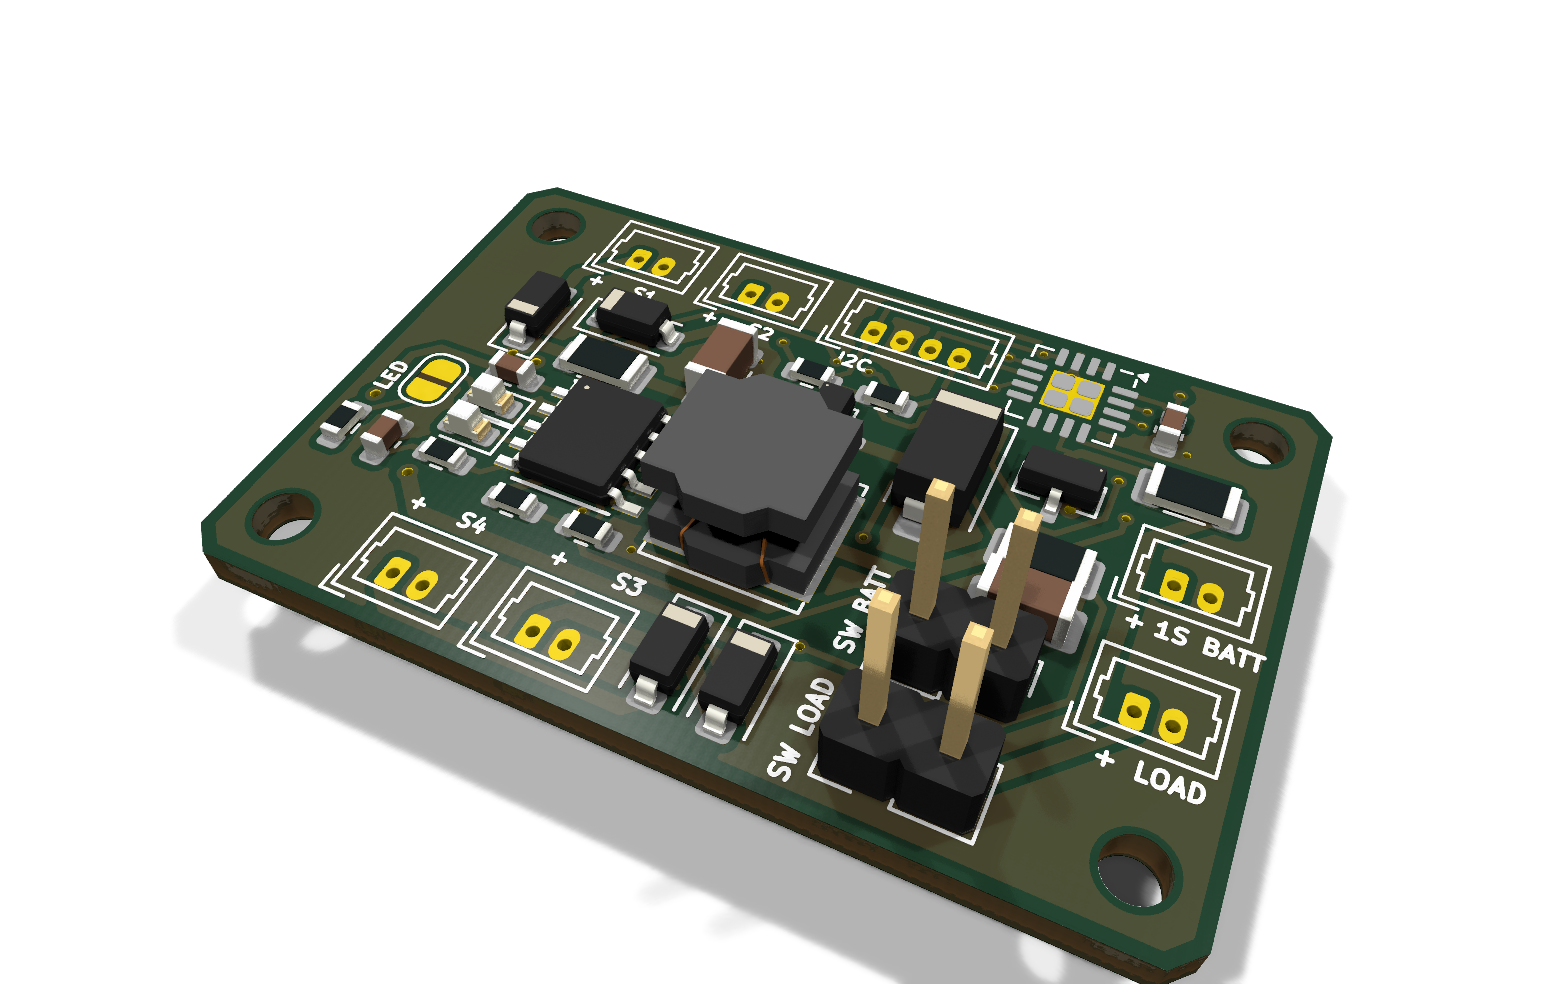
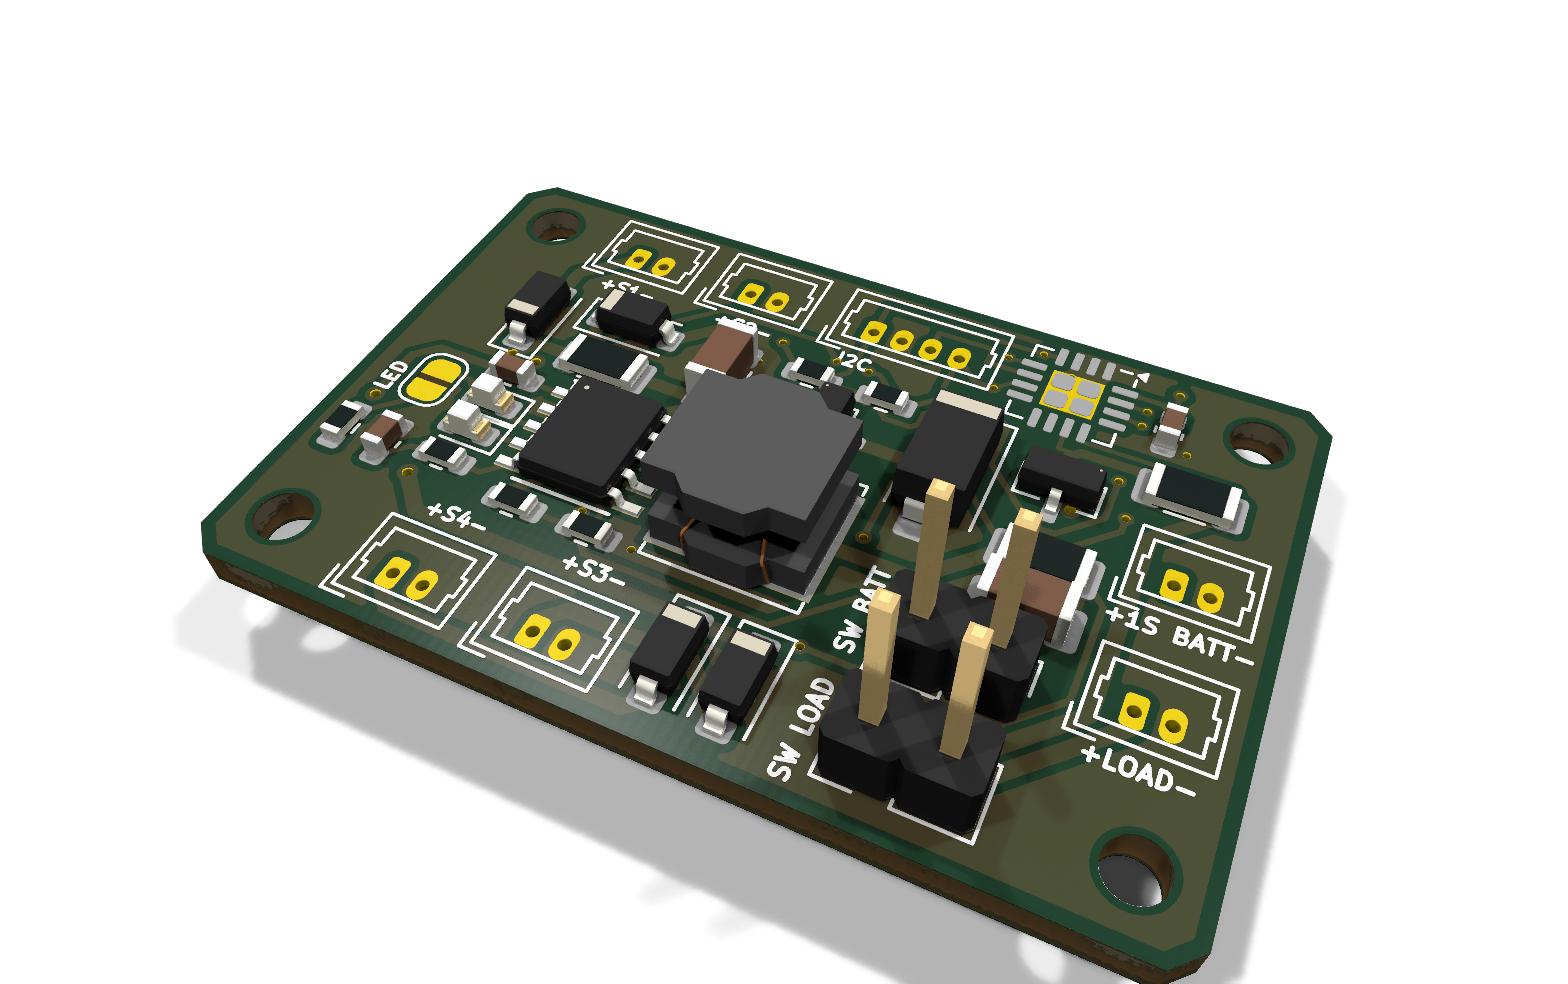
feat(silk): put both polarity marks on each connector label
The J1-J6 labels showed only a "+" on the pin-1 side: "+   S1" texts on
the solar inputs, and separate "+" marks next to "1S BATT" and "LOAD".
Replace them with one centred label per connector that also marks
ground: +S1-, +S2-, +S3-, +S4-, +1S BATT- and +LOAD-, still 0.6 mm,
each centred on its pad pair so "+" falls on pin 1 and "-" on GND.

Re-render the top and 3D images and redraw the wiring diagram. Update
the silkscreen notes in README, CHANGELOG and CLAUDE.md. DRC:
0 violations, 0 unconnected, schematic parity 0.

diff --git a/CLAUDE.md b/CLAUDE.md
@@ -13,7 +13,7 @@ Schematic complete and reviewed; ERC is clean (0 items at all severities) and th
 
 PCB placed and auto-routed: 42 footprints (incl. H1–H4 and the JP1 solder jumper), 216 track segments, 46 vias, GND pours on both layers. DRC: 0 violations, 0 unconnected, schematic parity 0. Silkscreen has connector function labels, +/- polarity marks, I2C pin names and the module ID on the back. v1.1 is work in progress on `main`: v1.0's pinout and copper, plus polarity marks, a new back label and revision, 2.54 mm pin headers on J7 and J8, R3 = 26.7k (4.42 V MPPT set point, was 28.0k / 4.58 V), JP1, an open solder jumper in the LED supply, Q2, a reverse-battery P-FET at J5, and J9 reordered to 1 VCC, 2 GND, 3 SCL, 4 SDA (was 2 SDA, 4 GND) to match the user's red/black/yellow/white cable. The first v1.1 tag and release were withdrawn; the user will mint v1.1 again when ordering the next fabrication batch. v1.0 is the only release, with its fab package attached. Commit 0093163 swapped J5 and J6 by mistake, so don't use it. Commit 948465d is the JST board with v1.1's silkscreen that was briefly tagged v1.1. Fabrication package generated (Gerbers, drill, BOM, CPL, fab notes) — see **Fabrication**. Next: manual layout review before ordering (buck hot loop, B.Cu plane cuts), pick LCSC parts for the assembly BOM.
 
-**Current board (`new_layout`, started 2026-11-16, merged into `main` on 2026-11-17): a new, hand-placed 36.4 × 23.6 mm board. Everything else in this file about placement, routing, outline and holes describes the previous 52 × 29 mm board (`main` up to ea2bd97). The README, CHANGELOG, `docs/images/` (renders at zoom 1.35, wiring diagram, schematic SVG), `tools/make-diagram.py` and the fab notes in `tools/fab-package.js` describe the new board (2026-11-17).** The user removed R10 and the panel-1 channel (INA3221 channel 3 inputs IN+3/IN−3 are tied together and, since 2026-11-17, to GND: #PWR019 below the tie, and on the board a 0.65 mm F.Cu link from U2 pad 2 to pad 3, so ERC is 0) and hand-placed and locked C1, C3, C5, D5–D8, J1–J4, L1, Q1, R7 and U1 in KiCad. Claude placed the rest once (D2 moved under L1 with the user's OK); the user then reworked the whole placement by hand, so the board file, not this note, is the source of truth for part positions. Mounting holes: H1–H4 are M2 (`MountingHole:MountingHole_2.2mm_M2`, value M2, schematic and board), one per corner, 2.5 mm from both edges, at abs (104.35, 102.5), (135.75, 102.5), (104.35, 121.1), (135.75, 121.1): a 31.4 × 18.6 mm pattern. The outline is fitted to the user's placement without moving parts: the width is set by the top holes (H1 just clears J1, H2 just clears C6), the bottom edge by the 0.5 mm copper-to-edge rule at D7/D8's pads. 36.4 × 23.6 mm, abs x 101.85–138.25, y 100–123.6, 1 mm chamfers. Silk is the user's own (connector labels with `+`). After an electrical/noise review of the user's final placement, Claude moved (user's OK): C1 and C5 vertical left of Q1 with VIN pads down toward Q1's source and C5 (100 nF) closest, 1.9 mm from it; C2 (VG) next to U1 pin 1, with the left column at 1.6 mm pitch matching pins 1–5 (C2, D4, D3, R2, C4) and JP1 + R1 moved beside it (LED chain VIN → R1 → JP1 → anodes without crossings; the `LED` label moved with JP1); R3/R4 under U1 so the MPPT node is about 3 mm long at pin 6 instead of 12 mm from the left edge; C3 (Cout) under R5 with its VBAT pad below R5's, J7 0.86 mm lower to make room. Routing notes for this board: DRV (U1 pin 10 → Q1 gate) has to hop to B.Cu because Q1's gate and source share a side; give C1/C5's GND pads and D2's anode their own vias (the return to D2 is ~8 mm through the plane); L1's SW pad is only 0.65 mm from U1 pins 7–10; C6 stays 4.5 mm from U2's VS pin (no room on that side). Placement committed as e94f77c. **Routing (2026-11-16):** U2 moved 0.45 mm left so INA channel 2 (pins 14/15) can escape past C6, and D2 moved 0.25 mm down to clear U2's courtyard. The board was routed by an adaptation of `tools/route-pcb.py` (copy in the gitignored `output/route-new-layout.py`). Changes from that tool: a route may change layers at a same-net through-hole pad without a new via. Kelvin lines may touch only their two end pads. A HAND list holds hand-placed tracks that are routed before everything else: the DRV hop, the INA escapes, the U2 supply, A0→SDA and the I2C pull-up fan-out with SCL changing layer at J9.3. B.Cu keep-outs for every net but GND sit under U2, under the C5/Q1/D2 switching loop and under L1's switch pad. Without the U2 keep-out, B.Cu tracks fenced in U2's exposed-pad ground. Result: 0 unconnected, parity 0. The 12 text-height warnings on the user's 0.6 mm front labels went away on 2026-11-17, when the minimum text height in the .kicad_pro was lowered from 0.8 to 0.6 mm at the user's request; DRC is now 0 violations. GND pours fill both layers, and B.Cu is one piece. DRC: 0 errors, parity 0, 70 unrouted. `tools/place-pcb.py` and `tools/draw-routes.py` describe the previous board and must not be run on this one. **Back silkscreen (2026-11-16):** `main`'s back label, same text and order, mirrored on B.Silkscreen, except that the second line is just the date, "Nov. 14, 2026": the user had "by JaisorGadgets" removed. To fit the 36.4 × 23.6 mm board, the title is 1.0 mm (was 1.2) and the body 0.8 mm (was 1.0) at a 1.2 mm pitch, centred at abs x = 116 between the left edge and J7's pads, from y = 107.5 to 119. The two last legal lines are one line, "LIABILITY LIMITED TO THE PURCHASE PRICE.", which fits only in the gap between J7 and J8. J9's VCC/GND/SCL/SDA are 0.8 mm vertical text below each pad. The script is `output/add-back-silk-new-layout.py` (gitignored), and it can be re-run: it first removes the board's B.Silkscreen texts. DRC is unchanged.
+**Current board (`new_layout`, started 2026-11-16, merged into `main` on 2026-11-17): a new, hand-placed 36.4 × 23.6 mm board. Everything else in this file about placement, routing, outline and holes describes the previous 52 × 29 mm board (`main` up to ea2bd97). The README, CHANGELOG, `docs/images/` (renders at zoom 1.35, wiring diagram, schematic SVG), `tools/make-diagram.py` and the fab notes in `tools/fab-package.js` describe the new board (2026-11-17).** The user removed R10 and the panel-1 channel (INA3221 channel 3 inputs IN+3/IN−3 are tied together and, since 2026-11-17, to GND: #PWR019 below the tie, and on the board a 0.65 mm F.Cu link from U2 pad 2 to pad 3, so ERC is 0) and hand-placed and locked C1, C3, C5, D5–D8, J1–J4, L1, Q1, R7 and U1 in KiCad. Claude placed the rest once (D2 moved under L1 with the user's OK); the user then reworked the whole placement by hand, so the board file, not this note, is the source of truth for part positions. Mounting holes: H1–H4 are M2 (`MountingHole:MountingHole_2.2mm_M2`, value M2, schematic and board), one per corner, 2.5 mm from both edges, at abs (104.35, 102.5), (135.75, 102.5), (104.35, 121.1), (135.75, 121.1): a 31.4 × 18.6 mm pattern. The outline is fitted to the user's placement without moving parts: the width is set by the top holes (H1 just clears J1, H2 just clears C6), the bottom edge by the 0.5 mm copper-to-edge rule at D7/D8's pads. 36.4 × 23.6 mm, abs x 101.85–138.25, y 100–123.6, 1 mm chamfers. Silk is the user's own labels, except that on 2026-11-17 (user's request) the J1–J6 labels became one centred `+name-` text each (`+S1-`…`+S4-`, `+1S BATT-`, `+LOAD-`, 0.6 mm, centred on the pad pair), replacing `+   S1` style texts and the separate `+` marks at J5/J6. After an electrical/noise review of the user's final placement, Claude moved (user's OK): C1 and C5 vertical left of Q1 with VIN pads down toward Q1's source and C5 (100 nF) closest, 1.9 mm from it; C2 (VG) next to U1 pin 1, with the left column at 1.6 mm pitch matching pins 1–5 (C2, D4, D3, R2, C4) and JP1 + R1 moved beside it (LED chain VIN → R1 → JP1 → anodes without crossings; the `LED` label moved with JP1); R3/R4 under U1 so the MPPT node is about 3 mm long at pin 6 instead of 12 mm from the left edge; C3 (Cout) under R5 with its VBAT pad below R5's, J7 0.86 mm lower to make room. Routing notes for this board: DRV (U1 pin 10 → Q1 gate) has to hop to B.Cu because Q1's gate and source share a side; give C1/C5's GND pads and D2's anode their own vias (the return to D2 is ~8 mm through the plane); L1's SW pad is only 0.65 mm from U1 pins 7–10; C6 stays 4.5 mm from U2's VS pin (no room on that side). Placement committed as e94f77c. **Routing (2026-11-16):** U2 moved 0.45 mm left so INA channel 2 (pins 14/15) can escape past C6, and D2 moved 0.25 mm down to clear U2's courtyard. The board was routed by an adaptation of `tools/route-pcb.py` (copy in the gitignored `output/route-new-layout.py`). Changes from that tool: a route may change layers at a same-net through-hole pad without a new via. Kelvin lines may touch only their two end pads. A HAND list holds hand-placed tracks that are routed before everything else: the DRV hop, the INA escapes, the U2 supply, A0→SDA and the I2C pull-up fan-out with SCL changing layer at J9.3. B.Cu keep-outs for every net but GND sit under U2, under the C5/Q1/D2 switching loop and under L1's switch pad. Without the U2 keep-out, B.Cu tracks fenced in U2's exposed-pad ground. Result: 0 unconnected, parity 0. The 12 text-height warnings on the user's 0.6 mm front labels went away on 2026-11-17, when the minimum text height in the .kicad_pro was lowered from 0.8 to 0.6 mm at the user's request; DRC is now 0 violations. GND pours fill both layers, and B.Cu is one piece. DRC: 0 errors, parity 0, 70 unrouted. `tools/place-pcb.py` and `tools/draw-routes.py` describe the previous board and must not be run on this one. **Back silkscreen (2026-11-16):** `main`'s back label, same text and order, mirrored on B.Silkscreen, except that the second line is just the date, "Nov. 14, 2026": the user had "by JaisorGadgets" removed. To fit the 36.4 × 23.6 mm board, the title is 1.0 mm (was 1.2) and the body 0.8 mm (was 1.0) at a 1.2 mm pitch, centred at abs x = 116 between the left edge and J7's pads, from y = 107.5 to 119. The two last legal lines are one line, "LIABILITY LIMITED TO THE PURCHASE PRICE.", which fits only in the gap between J7 and J8. J9's VCC/GND/SCL/SDA are 0.8 mm vertical text below each pad. The script is `output/add-back-silk-new-layout.py` (gitignored), and it can be re-run: it first removes the board's B.Silkscreen texts. DRC is unchanged.
 
 **Merged 2026-11-09:** `multi_channel_sensor` went into `main` through PR #1 (merge def7636), so `main` now holds the 52 × 29 mm INA3221 board and every mention below of "the branch" or "on `main`" describes history before that merge. `CHANGELOG.md` lists the user-facing changes per release; add to it with each release.
 

diff --git a/README.md b/README.md
@@ -118,11 +118,11 @@ The schematic follows the CN3791 datasheet's typical application circuit (Figure
 | Area | Parts |
 |---|---|
 | Corners | M2 mounting holes H1–H4 |
-| Top edge | Solar inputs J1 (`S1`) and J2 (`S2`), the 4-pin I2C connector J9, then the INA3221 (U2) with its bypass capacitor C6 |
+| Top edge | Solar inputs J1 (`+S1-`) and J2 (`+S2-`), the 4-pin I2C connector J9, then the INA3221 (U2) with its bypass capacitor C6 |
 | Upper middle | Input diodes D5/D6 and the solar shunt R7, then the buck power stage: C1/C5, Q1, D2, with the I2C pull-ups R8/R9 above Q1. Right of D2: the charge-current shunt R5 and C3, the reverse-battery MOSFET Q2 and the battery shunt R6 |
 | Middle | CN3791 (U1), with C2, the status LEDs D3/D4, R2 and C4 in a column on its left and the MPPT divider R3/R4 below it. L1 is to its right. JP1, the LED solder jumper, and R1 sit at the left edge |
-| Right edge | Battery (J5, `1S BATT`) and VOUT (J6, `LOAD`) |
-| Bottom edge | Solar inputs J4 (`S4`) and J3 (`S3`) with their diodes D8/D7, then the switch headers J7 (`SW BATT`) and J8 (`SW LOAD`) |
+| Right edge | Battery (J5, `+1S BATT-`) and VOUT (J6, `+LOAD-`) |
+| Bottom edge | Solar inputs J4 (`+S4-`) and J3 (`+S3-`) with their diodes D8/D7, then the switch headers J7 (`SW BATT`) and J8 (`SW LOAD`) |
 
 Reference designators aren't printed; the silkscreen carries only function labels. The holes are plain non-plated 2.2mm M2 holes, 2.5mm in from each edge.
 
@@ -140,9 +140,8 @@ The [wiring diagram](#built-for-solar-mesh-nodes) includes a dimension drawing t
 
 **Silkscreen labels:**
 
-- **Connector functions:** `1S BATT` (J5) and `LOAD` (J6) under the two right-hand connectors. `SW BATT` (J7) and `SW LOAD` (J8) are vertical labels left of the switch headers.
-- **Solar inputs:** `S1` to `S4` beside J1–J4.
-- **Polarity:** a `+` beside pin 1 of each solar, battery and VOUT connector (J1–J6).
+- **Connector labels with polarity:** each solar, battery and VOUT connector has one label centred under or over it, with `+` on the pin-1 side and `-` on the GND side: `+S1-` to `+S4-` on J1–J4, `+1S BATT-` on J5 and `+LOAD-` on J6.
+- **Switch headers:** `SW BATT` (J7) and `SW LOAD` (J8) are vertical labels left of the headers.
 - **I2C connector:** `I2C` under J9 on the front. The pin names (`VCC`, `GND`, `SCL`, `SDA`) are printed under its pads on the back.
 - **LED jumper:** `LED` beside JP1.
 - **Back:** the module ID, "SNAP Power Controller v1.1 / Nov. 14, 2026". Under it, a reminder to check polarity, the limits listed under [Safety](#safety), and a short no-warranty notice.
@@ -178,7 +177,7 @@ J1–J6 and J9 are Micro JST 1.25 (Molex PicoBlade-compatible) vertical headers,
 - **Current:** PicoBlade contacts are rated 1.0A. The charge current is set to 0.8A to stay under that on the battery connector (J5). Keep the module's load current under 1A too, since it flows through J5 when the panels are dark.
 - **No keying between functions:** J1–J6 are the same 2-pin type, so a battery lead fits a solar socket. Check the silkscreen before plugging in. The switch headers take a different plug, so they can't be mixed up with these.
 - **Battery polarity:** "JST 1.25" LiPo pigtails have no standard polarity. Check that red goes to the pin marked `+` (pin 1 on J5) before connecting. Q2 blocks a reversed cell, but fit the cell with SW_BATT off anyway: with SW_BATT on in sunlight, the charger's output can partly turn Q2 on and push a limited current into a reversed cell, which heats Q2.
-- **Reading the marks:** pin 1 is `+` on J1–J6, and the `+` mark sits beside it. All six face the same way, so pin 1 is the left pin with the board read as printed.
+- **Reading the marks:** each of J1–J6 has a `+name-` label: pin 1 (`+`) is on the `+` side and GND on the `-` side. All six face the same way, so pin 1 is the left pin with the board read as printed.
 
 **Operating note:** if SW_BATT is off while the panels are in sun, the charger sees no battery and VBAT pulses around 4.2V. Keep SW_LOAD off in that state.
 

diff --git a/CHANGELOG.md b/CHANGELOG.md
@@ -8,7 +8,7 @@ Changes on `main` since the v1.1 release files. The whole board differs, so don'
 
 - A new, smaller board, placed by hand: 36.4 × 23.6 mm (was 52 × 29 mm), with 1 mm corner chamfers. It has four M2 mounting holes, 2.2 mm in diameter and 2.5 mm from each edge, 31.4 × 18.6 mm apart (were M3, 44 × 21 mm apart). Every part and connector moves, so mounts made for the 52 × 29 mm board don't fit. The board was re-routed: both layers have a GND pour, and only ground runs on the bottom layer under the buck converter's switching loop.
 - R10 and INA3221 channel 3, which read panel 1 on its own, are removed. Channel 3's inputs are tied to GND. The monitor reads the battery (channel 1) and the total solar input (channel 2).
-- The front silkscreen has function labels only: `S1`–`S4`, `1S BATT`, `LOAD`, `SW BATT`, `SW LOAD`, `I2C` and `LED`, with a `+` beside pin 1 of J1–J6. Reference designators aren't printed.
+- The front silkscreen has function labels only. J1–J6 have one label each with both polarity marks, `+` on the pin-1 side and `-` on the GND side: `+S1-` to `+S4-`, `+1S BATT-` and `+LOAD-`. The other labels are `SW BATT`, `SW LOAD`, `I2C` and `LED`. Reference designators aren't printed.
 
 - The input diodes D5–D8 are 1N5819W in SOD-123 (was 1N5819WS in SOD-323), so each solar input is good for 0.5 A instead of about 0.3 A. To fit them, J1, J2 and J4 move 0.45 mm left and J3 0.3 mm; J2 is also 0.2 mm lower. The mounting holes and the other connectors don't move.
 
